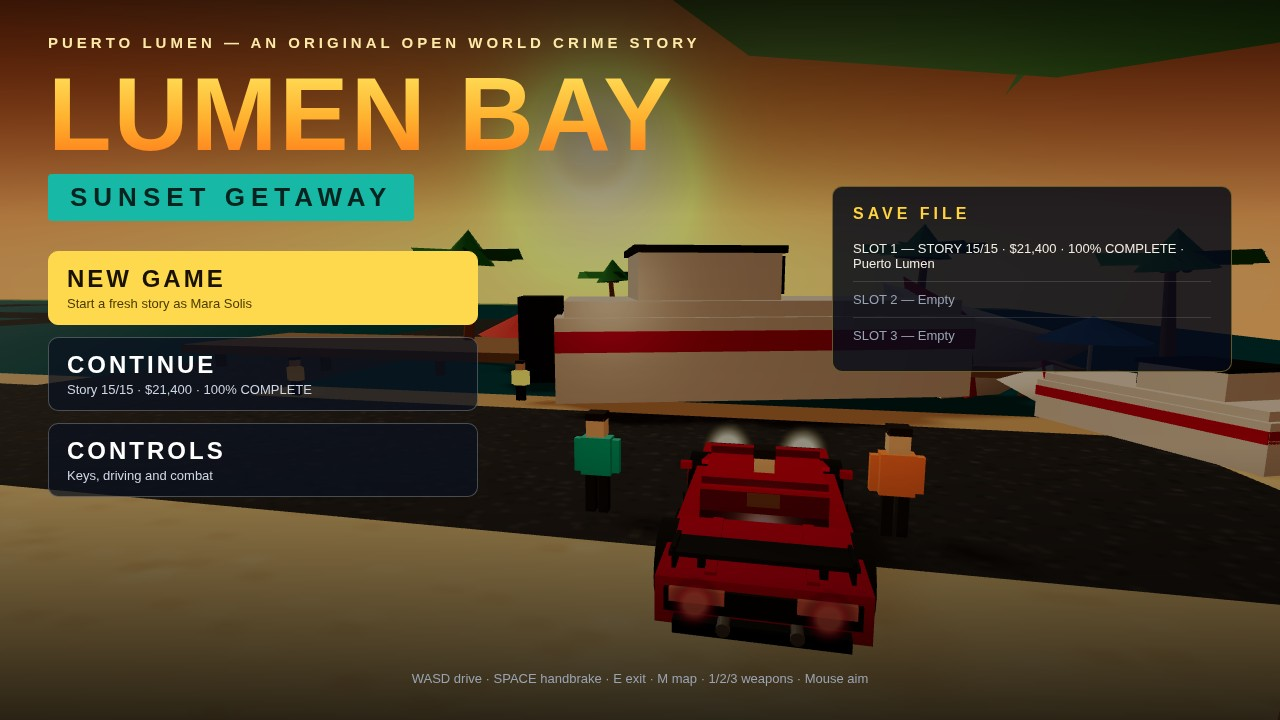
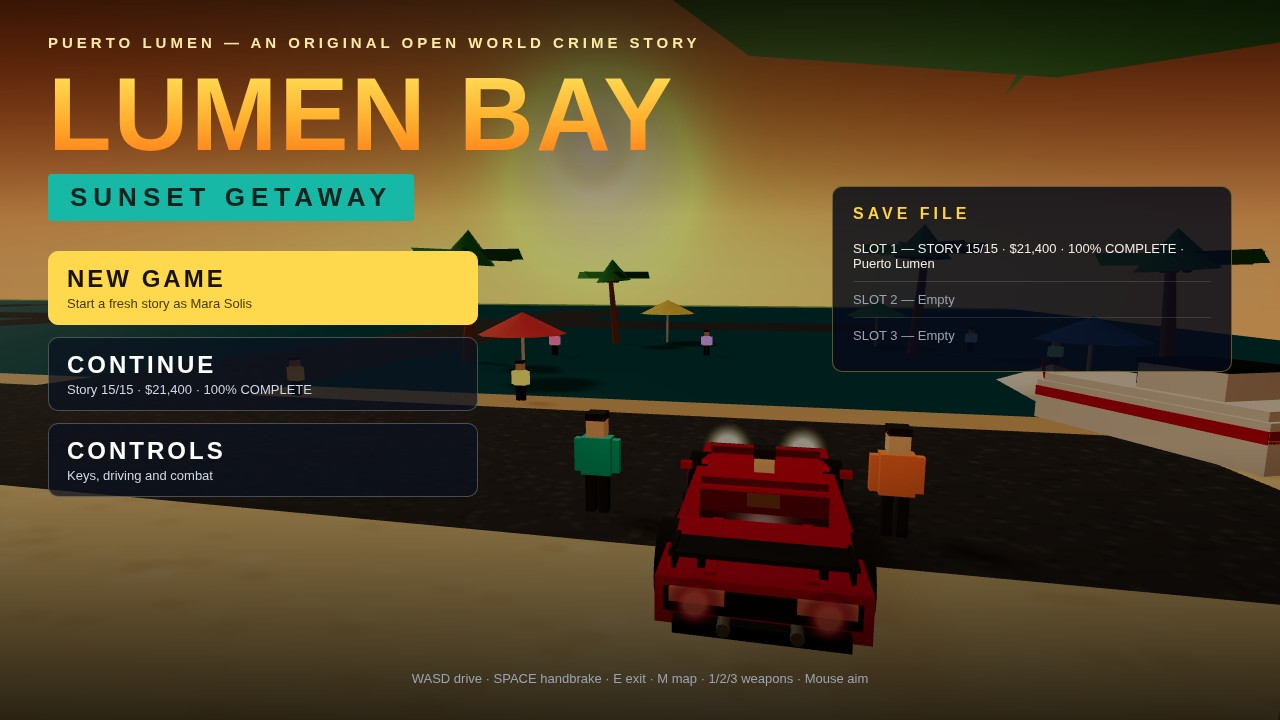
Lumen Bay shot 2+4 fixes r30: beach-only title backdrop; police cordon closes in on Mara
Shot 4: the big 3.6x speedboat read stern-on as a beige building block
with a red stripe (plus its dark outboard motor as a second block), so it
is removed; the marina pier is hidden too — it read as a wall-like band.
Backdrop is beach only now: sand, sea, low sun, palms, beachgoers,
umbrellas, and the two small boats, which read clearly as boats.
Title, banner, menu, SAVE FILE panel, hero car, both allies and
controls bar are untouched.

Shot 2: police ring closes in around Mara — cruisers at (106,206),
(116,209), (112,223) and (130,230), motorcycles flanking near at
(106,227) and (106,232). The old (99,213) cruiser sat on top of the hero
car and was invisible. Exactly 2 pedestrians, heli, body, dialogue and
all HUD panels unchanged. Shots 1 and 3 byte-identical.

Changed region(s): [[0.1562, 0.3361, 0.8125, 0.6111]]

diff --git a/game/src/shots.js b/game/src/shots.js
@@ -322,15 +322,17 @@ function stageShot2(game) {
   dressPerson(game, 0xffd21c, 120, 215, WEST, true);
   dressPerson(game, 0x19c8e8, 122, 217, WEST, true);
 
-  // Police closing in around Mara from the road side: a cruiser on the
-  // near side angled south-east toward her, and two police motorcycles
-  // beside it, also angled toward her. The flanking cruiser and the
-  // cruiser on the right stay where they were.
+  // Police cordon closing in around Mara (r30): cruisers on the road
+  // ahead of her and one close on the sand edge beside her, the far
+  // cruiser on the right as before, and two motorcycles flanking her
+  // near — a ring the viewer can read at a glance. No unit covers Mara,
+  // the body on the ground, or the two pedestrians on the road.
   place(game, makeCruiser(game.textures), 106, 206, WEST);
+  place(game, makeCruiser(game.textures), 116, 209, WEST);
+  place(game, makeCruiser(game.textures), 112, 223, WEST);
   place(game, makeCruiser(game.textures), 130, 230, WEST);
-  place(game, makeCruiser(game.textures), 99, 213, 0.15);
-  place(game, makePoliceBike(), 104, 216, -0.3);
-  place(game, makePoliceBike(), 107, 219, -0.6);
+  place(game, makePoliceBike(), 106, 227, -1.25);
+  place(game, makePoliceBike(), 106, 232, -2.36);
 
   // Hero Comet at the left edge as a foreground anchor, NOS flames off.
   const hero = game.heroCar;
@@ -407,13 +409,18 @@ function makeBeachPalm(lean) {
 }
 
 // ---------------------------------------------------------------------------
-// Shot 4 — title / start screen over the dawn boat scene. The 3D backdrop
-// is the dawn scene exactly as staged before: the big speedboat centre
-// frame, the hero Comet in the foreground with its nose to the boat, two
-// allies flanking the car, the low sun, the warm sand. The title screen
-// itself is shown (with the completed-save state) and every gameplay HUD
-// panel is hidden for the shot, while the money panel's cash text still
-// holds the pinned $21,400 so the capture tool's freshness check passes.
+// Shot 4 — title / start screen over the dawn beach scene. The 3D
+// backdrop is beach only (r30): the big speedboat is gone — seen
+// stern-on it read as a beige building block with a red stripe — and the
+// marina pier is hidden too, so nothing in the background can read as a
+// building, a wall, or a house. What is left is open beach: sand, sea,
+// the low sun, palm trees, beachgoers, umbrellas, and the two small
+// boats at the west end, which read clearly as boats. The hero Comet
+// sits in the foreground with two allies flanking the car. The title
+// screen itself is shown (with the completed-save state) and every
+// gameplay HUD panel is hidden for the shot, while the money panel's
+// cash text still holds the pinned $21,400 so the capture tool's
+// freshness check passes.
 // ---------------------------------------------------------------------------
 const HUD_PANELS = [
   'missionPanel', 'wantedPanel', 'moneyPanel', 'policePanel', 'toasts',
@@ -429,17 +436,17 @@ function stageShot4(game) {
   // used to sit so close to the lens that its front ran off the bottom
   // edge. The pullback is kept short on purpose — any further back and
   // the palm trunk just west of the camera crowds into the right of the
-  // frame and hides the orange ally. The boat stays centre frame and
-  // the allies still flank the car.
+  // frame and hides the orange ally. The allies still flank the car.
   camera.position.set(-28, 5.0, 224);
   camera.lookAt(-22, 1.2, 252);
 
-  // Speedboat, big and centre frame, turned slightly.
-  const boat = makeBoat();
-  boat.scale.setScalar(3.6);
-  place(game, boat, -29, 252, -1.27);
+  // No big speedboat any more (r30): at 3.6x scale, seen stern-on, its
+  // white hull, red stripe, cabin and dark outboard motor read as one
+  // big beige building block with a red stripe and a dark block beside
+  // it. It is removed rather than left as an ambiguous shape; the two
+  // small boats below stay — they read clearly as boats.
 
-  // Hero Comet in the foreground, rear to the camera, nose to the boat.
+  // Hero Comet in the foreground, rear to the camera, nose to the sea.
   const hero = game.heroCar;
   hero.position.set(-28, 0, 235);
   hero.rotation.y = 0;
@@ -495,6 +502,19 @@ function stageShot4(game) {
     const boat = makeBoat();
     boat.scale.setScalar(s);
     place(game, boat, x, z, heading);
+  }
+  // Marina pier (r30): the long wooden deck reads as a wall-like band
+  // across the middle of the frame, so hide it — the backdrop is beach
+  // only now. It is found by its position in the city group, not by
+  // name, so the live city itself is untouched.
+  if (game.city && game.city.group) {
+    for (const child of game.city.group.children) {
+      if (child.type === 'Group'
+        && Math.abs(child.position.x + 18) < 0.5
+        && Math.abs(child.position.z - 256) < 0.5) {
+        child.visible = false;
+      }
+    }
   }
   const sand = game.city && game.city.sandMat;
   if (sand && sand.emissive) {
